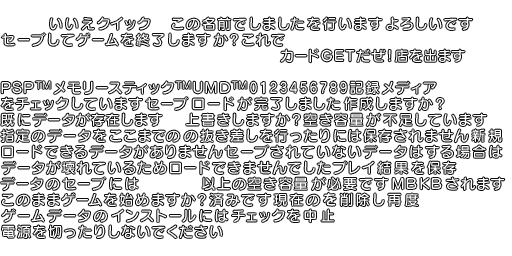
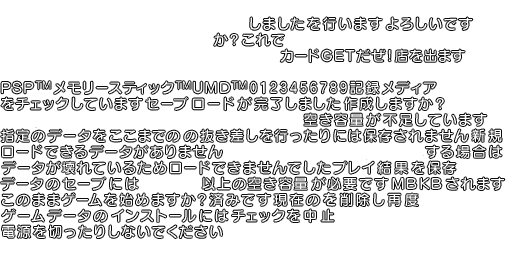
pr_0 patching day 2

diff --git a/apps/RGT_RGO_Patch_Builder/hdr/image_info/pr_0.h b/apps/RGT_RGO_Patch_Builder/hdr/image_info/pr_0.h
@@ -8,7 +8,7 @@ static texture_region_info s_pr_0_regions_data[] =
 	/* YES (index 0x1) */
 	{
 		.read_top_left_offset = 0x101EA4,
-		.read_top_left = { 0, 16 },
+		.read_top_left = { 326, 0 },
 		.read_size_offset = 0x101C40,
 		.read_size = { 20, 16 },
 		.write_size_offset = 0x101C44,
@@ -18,7 +18,7 @@ static texture_region_info s_pr_0_regions_data[] =
 	/* NO (index 0x2) */
 	{
 		.read_top_left_offset = 0x101EA8,
-		.read_top_left = { 20, 16 },
+		.read_top_left = { 346, 0 },
 		.read_size_offset = 0x101C48,
 		.read_size = { 15, 16 },
 		.write_size_offset = 0x101C4C,
@@ -85,6 +85,18 @@ static texture_region_info s_pr_0_regions_data[] =
 		.write_size = { 82, 16 }
 	},
 
+	/* Save and exit the game? (index 0x9) */
+	{
+		.write_top_left_offset = 0x102378,
+		.write_top_left = { 170, 114 },
+		.read_top_left_offset = 0x101EC4,
+		.read_top_left = { 361, 0 },
+		.read_size_offset = 0x101C80,
+		.read_size = { 139, 16 },
+		.write_size_offset = 0x101C84,
+		.write_size = { 139, 16 }
+	},
+
 	/* Please enter a name (index 0xC) */
 	{
 		.write_top_left_offset = 0x1023E8,
@@ -121,6 +133,42 @@ static texture_region_info s_pr_0_regions_data[] =
 		.write_size = { 139, 16 }
 	},
 
+	/* Quick Save set. (index 0x10) */
+	{
+		.write_top_left_offset = 0x102B20,
+		.write_top_left = { 196, 128 },
+		.read_top_left_offset = 0x101EE0,
+		.read_top_left = { 0, 16 },
+		.read_size_offset = 0x101CB8,
+		.read_size = { 88, 16 },
+		.write_size_offset = 0x101CBC,
+		.write_size = { 88, 16 }
+	},
+
+	/* Overwrite existing save data? (index 0x20) */
+	{
+		.write_top_left_offset = 0x102538,
+		.write_top_left = { 150, 114 },
+		.read_top_left_offset = 0x101F20,
+		.read_top_left = { 0, 32 },
+		.read_size_offset = 0x101D38,
+		.read_size = { 180, 16 },
+		.write_size_offset = 0x101D3C,
+		.write_size = { 180, 16 }
+	},
+
+	/* Load this file? (index 0x21) */
+	{
+		.write_top_left_offset = 0x1025e0,
+		.write_top_left = { 198, 114 },
+		.read_top_left_offset = 0x101F24,
+		.read_top_left = { 88, 16 },
+		.read_size_offset = 0x101D40,
+		.read_size = { 83, 16 },
+		.write_size_offset = 0x101D44,
+		.write_size = { 83, 16 }
+	},
+
 	/* Save Episode+ progress? (index 0x28) */
 	{
 		.write_top_left_offset = 0x1028B8,
@@ -131,6 +179,16 @@ static texture_region_info s_pr_0_regions_data[] =
 		.read_size = { 148, 16 },
 		.write_size_offset = 0x101D7C,
 		.write_size = { 148, 16 }
+	},
+
+	/* Unsaved data will be lost. (index 0x39) */
+	{
+		.read_top_left_offset = 0x101F84,
+		.read_top_left = { 148, 64 },
+		.read_size_offset = 0x101E00,
+		.read_size = { 144, 16 },
+		.write_size_offset = 0x101E04,
+		.write_size = { 144, 16 }
 	}
 };
 
@@ -143,6 +201,14 @@ static single_instruction_patch s_pr_0_single_instruction_patches[] =
 	{ 0x3BD1C, 0x340400B3 },
 	{ 0x3BC64, 0x2624004C },
 	{ 0x3BC74, 0x2624FFEB },
+	{ 0x3BF7C, 0x340400B6 },
+
+	/* "Unsaved data will be lost" 
+	 * Line placement. Removal of third line. */
+	{ 0x3BF98, 0x341000A8 },
+	{ 0x3BFA0, 0x34040080 },
+	{ 0x3BFC8, 0x34040000 },
+	{ 0x3BFD0, 0x34040000 }
 };
 
 static byte_sequence_patch s_pr_0_byte_sequence_patches_data[] =
@@ -161,6 +227,20 @@ static byte_sequence_patch s_pr_0_byte_sequence_patches_data[] =
 		"\x30\x00\x30\x00\x27\x00\x1B\x00\x16\x00"
 	),
 
+	/* Load this file? (region indices) */
+	BUILD_BYTE_SEQUENCE_PATCH
+	(
+		0x1025E4,
+		"\x21\x00\x4D\x00\x4D\x00"
+	),
+
+	/* Save and exit the game? (region indices) */
+	BUILD_BYTE_SEQUENCE_PATCH
+	(
+		0x10237C,
+		"\x09\x00\x4D\x00"
+	),
+
 	/* Is this a good name? (region indices) */
 	BUILD_BYTE_SEQUENCE_PATCH
 	(
@@ -172,7 +252,14 @@ static byte_sequence_patch s_pr_0_byte_sequence_patches_data[] =
 	BUILD_BYTE_SEQUENCE_PATCH
 	(
 		0x1023B4,
-		"\x0D\x00\x4d\x00"
+		"\x0D\x00\x4D\x00"
+	),
+
+	/* Quick Save set. (region indices) */
+	BUILD_BYTE_SEQUENCE_PATCH
+	(
+		0x102B24,
+		"\x10\x00\x4D\x00\x4D\x00"
 	),
 
 	/* Save Episode+ progress? (region indices) */
@@ -180,6 +267,14 @@ static byte_sequence_patch s_pr_0_byte_sequence_patches_data[] =
 	(
 		0x1028BC,
 		"\x28\x00\x4D\x00\x4D\x00\x4D\x00\x4D\x00"
+	),
+
+	/* Return to title screen? Unsaved data will be lost.
+	 * (x coordinate + region indices) */
+	BUILD_BYTE_SEQUENCE_PATCH
+	(
+		0x1028F0,
+		"\xAA\x00\x6A\x00\x0D\x00\x4D\x00\x4D\x00"
 	)
 };
 
